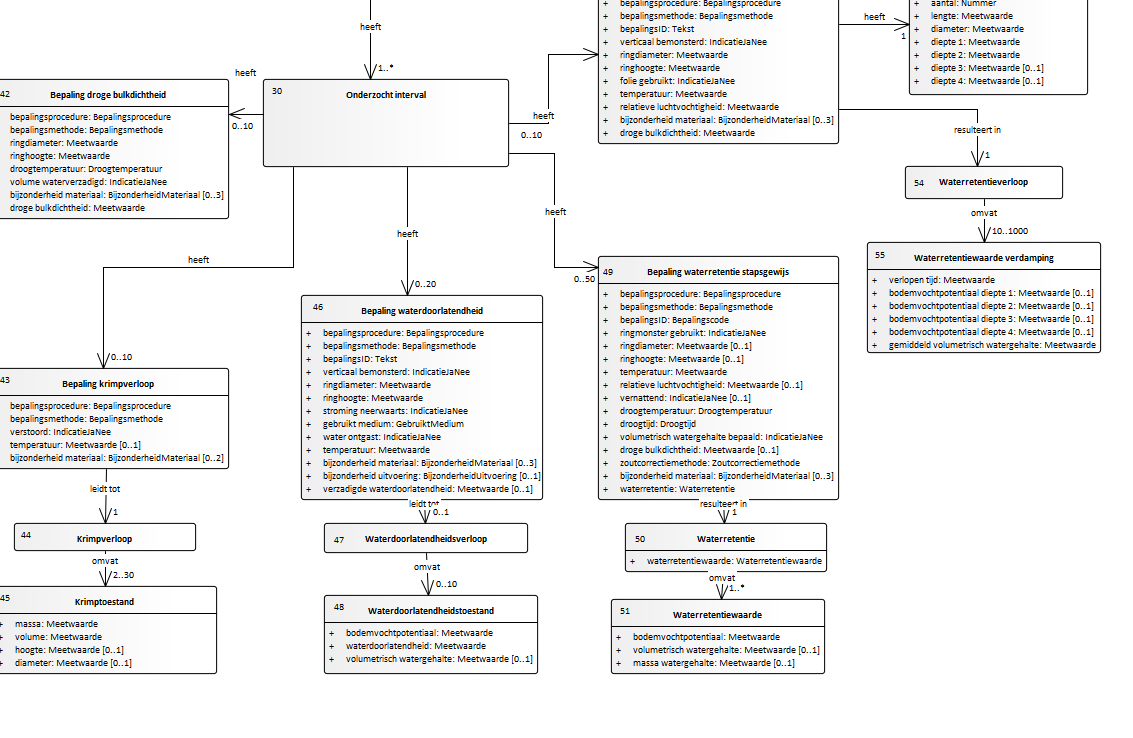
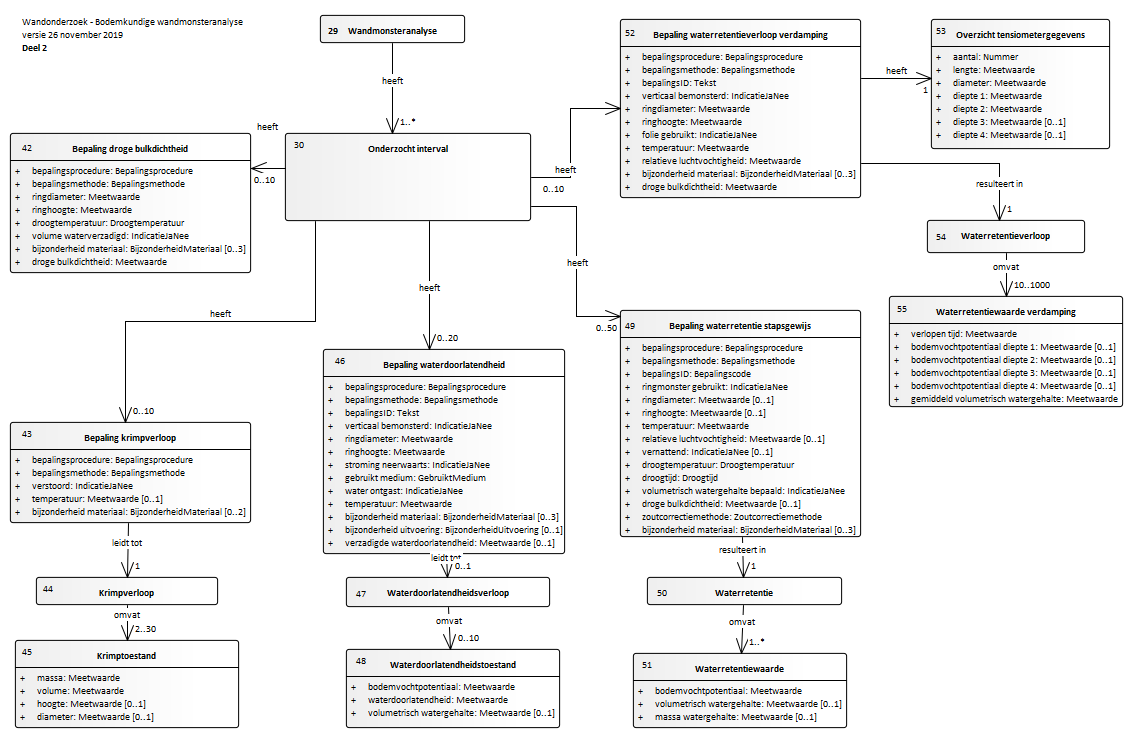
Conceptualmodel-BodemkundigwandonderzoekSFR-1.922versie2maart2020-3-20200302-20200302-160545

diff --git a/data/SFR-cat.msword.html b/data/SFR-cat.msword.html
@@ -1,7 +1,7 @@
 <html>
    <head>
       <meta http-equiv="Content-Type" content="text/html; charset=UTF-8">
-      <title>Conceptual model/Bodemkundig wandonderzoek (SFR)/20200224</title><style>
+      <title>Conceptual model/Bodemkundig wandonderzoek (SFR)/20200302</title><style>
                     table tbody tr th,
                     table tbody tr td {text-align: left; vertical-align: top;} 
                     
@@ -11,9 +11,9 @@
                     table.list tbody tr td {border: 1px solid black;}
                 </style></head>
    <body>
-      <p>Conceptual model/Bodemkundig wandonderzoek (SFR)/20200224</p>
+      <p>Conceptual model/Bodemkundig wandonderzoek (SFR)/20200302</p>
       <p>Imvertor: 1.59.2</p>
-      <p>Model release: Conceptualmodel-BodemkundigwandonderzoekSFR-1.92versie27nov2019-3-20200224-20200302-152836</p>
+      <p>Model release: Conceptualmodel-BodemkundigwandonderzoekSFR-1.922versie2maart2020-3-20200302-20200302-160545</p>
       <hr>
       <section>
          <h1>Artikel 1 Definitie van registratieobject, entiteiten en attributen</h1>
@@ -112,22 +112,22 @@
                      <area shape="rect" alt="Onderzocht interval" coords="417,138,659,226" href="#graph_EAID_A420FBE3_89CE_466c_875A_7F10AD21E90D"></map><p><b>Domeinmodel BRO SFR Bodemkundige analyses deel 1 1.91</b></p>
                </div>
                <div class="imageinfo overview"><img src="Images/EAID_2E9B0773_D299_49e6_BEBA_866A5B1961C2.png" usemap="#imagemap-EAID_2E9B0773_D299_49e6_BEBA_866A5B1961C2" alt="Diagram "><map name="imagemap-EAID_2E9B0773_D299_49e6_BEBA_866A5B1961C2">
-                     <area shape="rect" alt="Wandmonsteranalyse" coords="309,-12,454,16" href="#graph_EAID_DC3E6339_1B2C_482c_AB74_881D1281A2EC">
-                     <area shape="rect" alt="Krimptoestand" coords="-7,586,217,674" href="#graph_EAID_ABD5754F_2F97_48b5_B6AA_798E8E996A1B">
-                     <area shape="rect" alt="Krimpverloop" coords="14,523,196,551" href="#graph_EAID_368A7E5B_2AC2_4377_898A_204592B121EE">
-                     <area shape="rect" alt="Bepaling krimpverloop" coords="-12,368,229,469" href="#graph_EAID_FE20ED5D_F749_4cbf_A3F0_622FD6CE25DE">
-                     <area shape="rect" alt="Waterdoorlatendheidstoestand" coords="324,595,538,674" href="#graph_EAID_B49C8011_2704_45aa_B634_D2A7C3DBA664">
-                     <area shape="rect" alt="Waterdoorlatendheidsverloop" coords="324,523,528,553" href="#graph_EAID_7E57EB8B_0FFF_4b51_8B5A_AE9275E95298">
-                     <area shape="rect" alt="Waterretentiewaarde" coords="611,599,825,674" href="#graph_EAID_F02CB409_6369_43fa_851D_041176F3D170">
-                     <area shape="rect" alt="Waterretentie" coords="625,523,827,572" href="#graph_EAID_D23C916F_2BD4_4ea8_8084_CD4A129DC709">
-                     <area shape="rect" alt="Overzicht tensiometergegevens" coords="909,-35,1088,95" href="#graph_EAID_C8F6BEB6_3483_4781_A0FC_156AA99B7B0C">
-                     <area shape="rect" alt="Waterretentiewaarde verdamping" coords="867,242,1101,353" href="#graph_EAID_E568963F_D23E_4b85_AE99_F8FF7B47842B">
-                     <area shape="rect" alt="Waterretentieverloop" coords="905,166,1063,199" href="#graph_EAID_2DFF99AA_EEBB_4f93_BFBE_9601B723031A">
-                     <area shape="rect" alt="Bepaling waterretentieverloop verdamping" coords="598,-35,839,144" href="#graph_EAID_49AD3898_158D_47c7_B1AF_C839D2CB7B68">
-                     <area shape="rect" alt="Bepaling waterretentie stapsgewijs" coords="598,256,839,500" href="#graph_EAID_BAE772BD_B71F_4124_98FC_F7EF5E68BCBF">
-                     <area shape="rect" alt="Bepaling waterdoorlatendheid" coords="301,295,543,500" href="#graph_EAID_BCDCEB7C_2766_41e9_9958_35F5860BE49A">
-                     <area shape="rect" alt="Bepaling droge bulkdichtheid" coords="-12,79,229,219" href="#graph_EAID_A1E3A70D_62A1_406f_8D49_F395104462BB">
-                     <area shape="rect" alt="Onderzocht interval" coords="263,79,509,167" href="#graph_EAID_A420FBE3_89CE_466c_875A_7F10AD21E90D"></map><p><b>Domeinmodel BRO SFR Bodemkundige analyses deel 2 1.91</b></p>
+                     <area shape="rect" alt="Wandmonsteranalyse" coords="320,15,465,43" href="#graph_EAID_DC3E6339_1B2C_482c_AB74_881D1281A2EC">
+                     <area shape="rect" alt="Krimptoestand" coords="15,640,239,728" href="#graph_EAID_ABD5754F_2F97_48b5_B6AA_798E8E996A1B">
+                     <area shape="rect" alt="Krimpverloop" coords="36,577,218,605" href="#graph_EAID_368A7E5B_2AC2_4377_898A_204592B121EE">
+                     <area shape="rect" alt="Bepaling krimpverloop" coords="10,422,251,523" href="#graph_EAID_FE20ED5D_F749_4cbf_A3F0_622FD6CE25DE">
+                     <area shape="rect" alt="Waterdoorlatendheidstoestand" coords="346,649,560,728" href="#graph_EAID_B49C8011_2704_45aa_B634_D2A7C3DBA664">
+                     <area shape="rect" alt="Waterdoorlatendheidsverloop" coords="346,577,550,607" href="#graph_EAID_7E57EB8B_0FFF_4b51_8B5A_AE9275E95298">
+                     <area shape="rect" alt="Waterretentiewaarde" coords="633,653,847,728" href="#graph_EAID_F02CB409_6369_43fa_851D_041176F3D170">
+                     <area shape="rect" alt="Waterretentie" coords="647,577,842,605" href="#graph_EAID_D23C916F_2BD4_4ea8_8084_CD4A129DC709">
+                     <area shape="rect" alt="Overzicht tensiometergegevens" coords="931,19,1110,149" href="#graph_EAID_C8F6BEB6_3483_4781_A0FC_156AA99B7B0C">
+                     <area shape="rect" alt="Waterretentiewaarde verdamping" coords="889,296,1123,407" href="#graph_EAID_E568963F_D23E_4b85_AE99_F8FF7B47842B">
+                     <area shape="rect" alt="Waterretentieverloop" coords="927,220,1085,253" href="#graph_EAID_2DFF99AA_EEBB_4f93_BFBE_9601B723031A">
+                     <area shape="rect" alt="Bepaling waterretentieverloop verdamping" coords="620,19,861,198" href="#graph_EAID_49AD3898_158D_47c7_B1AF_C839D2CB7B68">
+                     <area shape="rect" alt="Bepaling waterretentie stapsgewijs" coords="620,310,861,537" href="#graph_EAID_BAE772BD_B71F_4124_98FC_F7EF5E68BCBF">
+                     <area shape="rect" alt="Bepaling waterdoorlatendheid" coords="323,349,565,554" href="#graph_EAID_BCDCEB7C_2766_41e9_9958_35F5860BE49A">
+                     <area shape="rect" alt="Bepaling droge bulkdichtheid" coords="10,133,251,273" href="#graph_EAID_A1E3A70D_62A1_406f_8D49_F395104462BB">
+                     <area shape="rect" alt="Onderzocht interval" coords="285,133,531,221" href="#graph_EAID_A420FBE3_89CE_466c_875A_7F10AD21E90D"></map><p><b>Domeinmodel BRO SFR Bodemkundige analyses deel 2 1.91</b></p>
                </div>
                <div class="imageinfo overview"><img src="Images/EAID_972A998B_ADB0_41ea_A710_B847F84FEA66.png" usemap="#imagemap-EAID_972A998B_ADB0_41ea_A710_B847F84FEA66" alt="Diagram "><map name="imagemap-EAID_972A998B_ADB0_41ea_A710_B847F84FEA66">
                      <area shape="rect" alt="Wandmonsteranalyse" coords="259,10,505,50" href="#graph_EAID_DC3E6339_1B2C_482c_AB74_881D1281A2EC">
@@ -17241,9 +17241,9 @@
                </section><a class="anchor" id="graph_EAID_BAE772BD_B71F_4124_98FC_F7EF5E68BCBF"></a><a class="anchor" id="global_class_DomeinmodelBROSFR_Bepalingwaterretentiestapsgewijs"></a><section id="global_class_DomeinmodelBROSFR_Bepalingwaterretentiestapsgewijs">
                   <h3>   Bepaling waterretentie stapsgewijs</h3>
                   <div class="imageinfo "><img src="Images/EAID_CFD7548D_F274_4398_8581_DF0FDD5EEFEB.png" usemap="#imagemap-EAID_CFD7548D_F274_4398_8581_DF0FDD5EEFEB" alt="Diagram "><map name="imagemap-EAID_CFD7548D_F274_4398_8581_DF0FDD5EEFEB">
-                        <area shape="rect" alt="Waterretentiewaarde" coords="48,401,212,453" href="#graph_EAID_F02CB409_6369_43fa_851D_041176F3D170">
-                        <area shape="rect" alt="Waterretentie" coords="59,295,261,347" href="#graph_EAID_D23C916F_2BD4_4ea8_8084_CD4A129DC709">
-                        <area shape="rect" alt="Bepaling waterretentie stapsgewijs" coords="10,10,250,254" href="#graph_EAID_BAE772BD_B71F_4124_98FC_F7EF5E68BCBF"></map><p><b></b></p>
+                        <area shape="rect" alt="Waterretentiewaarde" coords="49,401,211,429" href="#graph_EAID_F02CB409_6369_43fa_851D_041176F3D170">
+                        <area shape="rect" alt="Waterretentie" coords="29,288,231,340" href="#graph_EAID_D23C916F_2BD4_4ea8_8084_CD4A129DC709">
+                        <area shape="rect" alt="Bepaling waterretentie stapsgewijs" coords="10,10,250,241" href="#graph_EAID_BAE772BD_B71F_4124_98FC_F7EF5E68BCBF"></map><p><b></b></p>
                   </div>
                   <table style="width: 100%;">
                      <colgroup style="width: 30%;"></colgroup>
